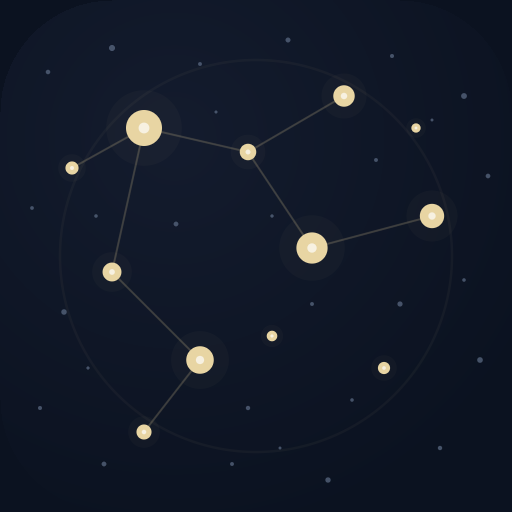
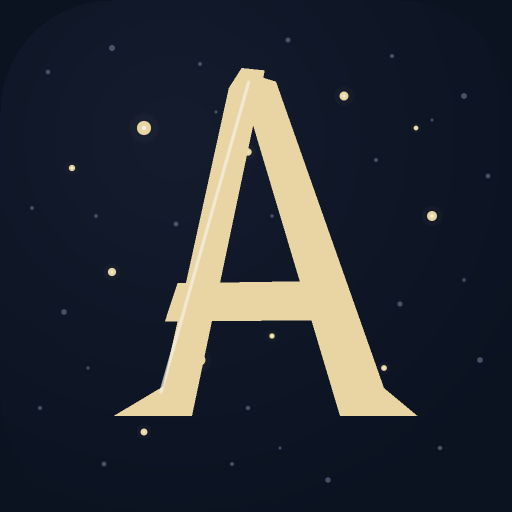
Replace the asterism with a custom display A
The mark should use the starfield as its background and a pale stylized A as
the foreground, without constellation links or badge geometry. Draw the A
as original SVG paths with tapered stems, flared feet, and a bowed crossbar,
then mirror the paths in the raster generator so it stays clear at 16px.

diff --git a/docs/assets/render_png.py b/docs/assets/render_png.py
@@ -17,14 +17,9 @@ DIM = (0x5C, 0x6B, 0x84)
 
 # Keep these coordinates in sync with astriena-mark.svg's 64-unit viewBox.
 STARS = [
-    (18, 16, 2.25), (39, 31, 1.95), (25, 45, 1.72), (54, 27, 1.52),
-    (43, 12, 1.34), (14, 34, 1.18), (31, 19, 1.03), (18, 54, .94),
-    (9, 21, .82), (48, 46, .76), (34, 42, .66), (52, 16, .58),
-]
-LINES = [
-    ((9, 21), (18, 16)), ((18, 16), (31, 19)), ((31, 19), (43, 12)),
-    ((31, 19), (39, 31)), ((39, 31), (54, 27)),
-    ((18, 16), (14, 34)), ((14, 34), (25, 45)), ((25, 45), (18, 54)),
+    (18, 16, .88), (39, 31, .74), (25, 45, .68), (54, 27, .62),
+    (43, 12, .56), (14, 34, .51), (31, 19, .46), (18, 54, .43),
+    (9, 21, .39), (48, 46, .36), (34, 42, .33), (52, 16, .30),
 ]
 FIELD = [
     (6, 9, .28), (14, 6, .38), (25, 8, .24), (36, 5, .31),
@@ -36,14 +31,20 @@ FIELD = [
     (27, 14, .19), (39, 38, .24), (54, 15, .18), (35, 56, .18),
 ]
 
-STARS_16 = [
-    (4.6, 4, 1.18), (9.8, 7.8, 1.02), (6.2, 11.3, .92),
-    (13.4, 6.8, .78), (10.8, 3, .67), (3.6, 8.5, .62),
-    (12, 12.5, .48), (2.6, 5.2, .45),
+FIELD_16 = [
+    (2.5, 3, .28), (12.7, 2.4, .25), (2.2, 10.8, .22),
+    (13.6, 11.5, .30), (4.4, 13.7, .24), (11.4, 14, .20),
 ]
-LINES_16 = [
-    ((2.6, 5.2), (4.6, 4)), ((4.6, 4), (7.8, 4.8)),
-    ((9.8, 7.8), (13.4, 6.8)), ((3.6, 8.5), (6.2, 11.3)),
+
+A_SHAPES = [
+    [(30.2, 8.5), (33.1, 8.8), (24, 52), (14.2, 52), (20.4, 48.3), (28.6, 11)],
+    [(31.2, 9.2), (34.5, 10.2), (48, 48.5), (52.2, 52), (42.5, 52), (30.3, 11.2)],
+    [(22.2, 35.4), (41.7, 35.1), (43.4, 40), (20.6, 40.2)],
+]
+A_SHAPES_16 = [
+    [(7.55, 2), (8.45, 2.1), (6.1, 13.5), (3.45, 13.5), (5.15, 12.4), (7.15, 2.7)],
+    [(7.8, 2.2), (8.8, 2.4), (12.2, 12.5), (13.2, 13.5), (10.6, 13.5), (7.55, 2.8)],
+    [(5.5, 8.7), (10.55, 8.65), (11, 10), (5.05, 10.1)],
 ]
 
 
@@ -114,19 +115,28 @@ class Canvas:
                 if cov:
                     self.set(x, y, color, a * cov)
 
-    def ring(
-        self, cx: float, cy: float, r: float, width: float,
-        color: tuple[int, int, int], alpha: float,
-    ) -> None:
-        edge = width / 2
-        x0, x1 = int(cx - r - edge - 1), int(cx + r + edge + 2)
-        y0, y1 = int(cy - r - edge - 1), int(cy + r + edge + 2)
-        for y in range(y0, y1):
-            for x in range(x0, x1):
-                distance = abs(math.hypot(x + .5 - cx, y + .5 - cy) - r)
-                coverage = max(0.0, min(1.0, edge + .5 - distance))
-                if coverage:
-                    self.set(x, y, color, alpha * coverage)
+    def polygon(self, points: list[tuple[float, float]], color: tuple[int, int, int]) -> None:
+        min_x = int(min(x for x, _ in points) - 1)
+        max_x = int(max(x for x, _ in points) + 2)
+        min_y = int(min(y for _, y in points) - 1)
+        max_y = int(max(y for _, y in points) + 2)
+        samples = ((.25, .25), (.75, .25), (.25, .75), (.75, .75))
+        for y in range(min_y, max_y):
+            for x in range(min_x, max_x):
+                inside = 0
+                for sx, sy in samples:
+                    px, py = x + sx, y + sy
+                    hit = False
+                    j = len(points) - 1
+                    for i, (xi, yi) in enumerate(points):
+                        xj, yj = points[j]
+                        crosses = (yi > py) != (yj > py)
+                        if crosses and px < (xj - xi) * (py - yi) / (yj - yi) + xi:
+                            hit = not hit
+                        j = i
+                    inside += hit
+                if inside:
+                    self.set(x, y, color, inside / len(samples))
 
     def line(
         self, x0: float, y0: float, x1: float, y1: float, width: float,
@@ -161,19 +171,16 @@ def png(canvas: Canvas, path: Path) -> None:
     )
 
 
-def draw_asterism(
-    c: Canvas, ox: float, oy: float, scale: float, line_w: float,
-    line_alpha: float = .07,
-) -> None:
-    c.ring(ox + 32 * scale, oy + 32 * scale, 24.5 * scale, .32 * scale, LINE, .05)
-    for (x0, y0), (x1, y1) in LINES:
-        c.line(
-            ox + x0 * scale, oy + y0 * scale,
-            ox + x1 * scale, oy + y1 * scale,
-            line_w, LINE, line_alpha,
-        )
+def draw_mark(c: Canvas, ox: float, oy: float, scale: float) -> None:
     for x, y, r in STARS:
         c.star(ox + x * scale, oy + y * scale, r * scale)
+    for shape in A_SHAPES:
+        c.polygon([(ox + x * scale, oy + y * scale) for x, y in shape], STAR)
+    c.line(
+        ox + 31.1 * scale, oy + 10.2 * scale,
+        ox + 20.1 * scale, oy + 49.1 * scale,
+        .45 * scale, CORE, .20,
+    )
 
 
 def render_mark(size: int, path: Path) -> None:
@@ -185,20 +192,17 @@ def render_mark(size: int, path: Path) -> None:
         if size <= 64 and r < .24:
             continue
         c.circle(x * scale, y * scale, max(.55, r * scale), DIM, .72)
-    draw_asterism(c, 0, 0, scale, .28 * scale)
+    draw_mark(c, 0, 0, scale)
     png(c, path)
 
 
 def render_mark_16(path: Path) -> None:
     c = Canvas(16, 16, BG)
     c.rounded_rect_mask(3.5)
-    c.ring(8, 8, 6, .35, LINE, .06)
-    for (x0, y0), (x1, y1) in LINES_16:
-        c.line(x0, y0, x1, y1, .45, LINE, .10)
-    for x, y, r in STARS_16:
-        c.circle(x, y, r, STAR)
-    c.circle(4.6, 4, .35, CORE)
-    c.circle(9.8, 7.8, .30, CORE)
+    for x, y, r in FIELD_16:
+        c.circle(x, y, r, DIM)
+    for shape in A_SHAPES_16:
+        c.polygon(shape, STAR)
     png(c, path)
 
 
@@ -217,7 +221,7 @@ def render_social(path: Path) -> None:
     for x, y, r in field:
         c.circle(x, y, r, DIM, 1.0)
     scale = 7.2
-    draw_asterism(c, 640 - 32 * scale, 320 - 31 * scale, scale, .28 * scale)
+    draw_mark(c, 640 - 32 * scale, 320 - 31 * scale, scale)
     png(c, path)
 
 

diff --git a/README.md b/README.md
@@ -55,10 +55,10 @@ sampling engine ([`internal/sampling`](internal/sampling)) and ClickHouse writer
 
 ## Visual language
 
-The mark is an original night-sky field: mixed-magnitude stars with faint,
-broken chart lines. It reads as sky and constellation before any letterform
-and is not a catalogued constellation. Night-sky tokens used across the SVG
-assets in [`docs/assets/`](docs/assets/):
+The mark pairs an irregular mixed-magnitude night sky with a custom-drawn,
+pale-gold display A. The letter uses tapered stems, flared feet, and a bowed
+crossbar; it is outlined directly in SVG and does not depend on a font file.
+Night-sky tokens used across the SVG assets in [`docs/assets/`](docs/assets/):
 
 | Token | Hex | Role |
 |---|---|---|

diff --git a/CHANGELOG.md b/CHANGELOG.md
@@ -9,9 +9,9 @@ pinned released versions.
 ## [Unreleased]
 
 ### Changed
-- Redrew the constellation mark as an irregular, mixed-magnitude night sky with
-  faint broken chart lines; the original five-star A was too dominant
-  (follow-up to #9).
+- Redrew the mark as a custom pale-gold display A over an irregular,
+  mixed-magnitude night sky, removing the constellation links and badge
+  geometry from the earlier exploration (follow-up to #9).
 
 ### Fixed
 - Keep-worthy traces and accepted ClickHouse rows survive sink errors and
